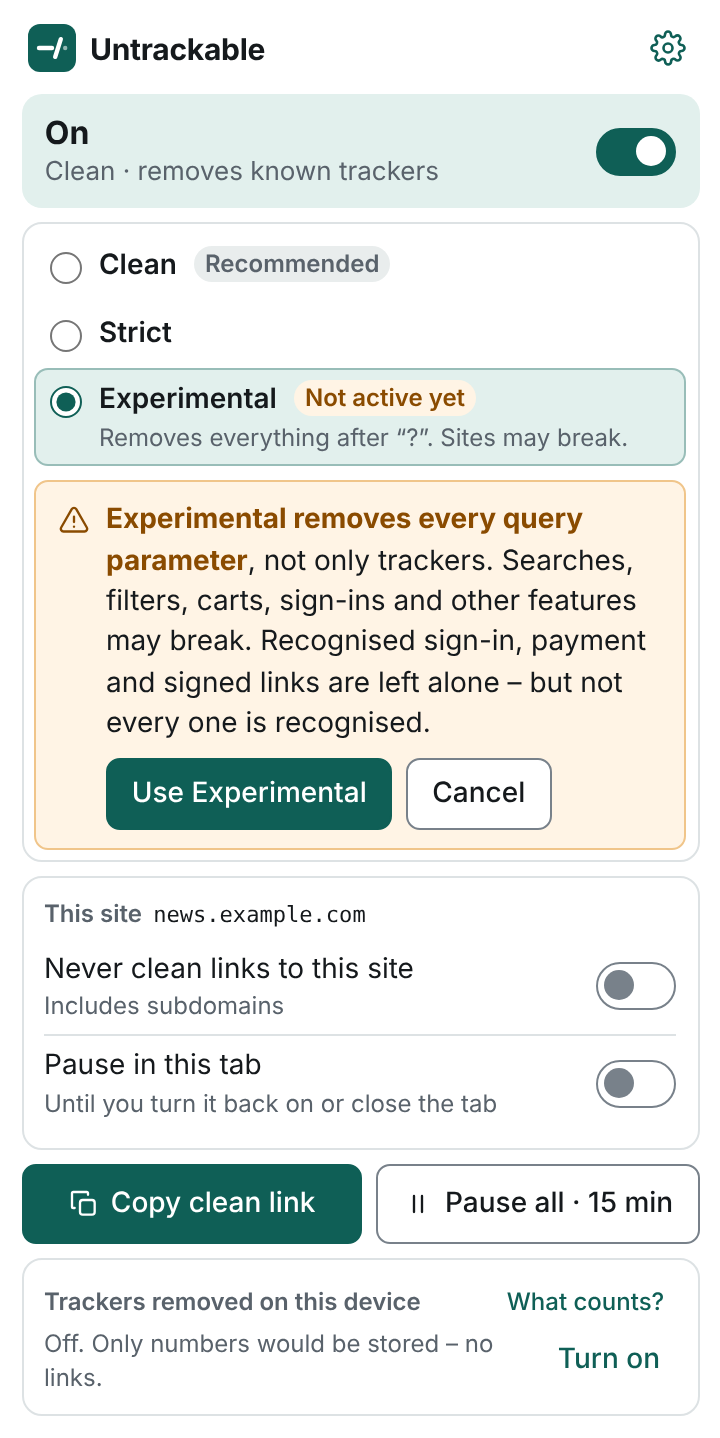
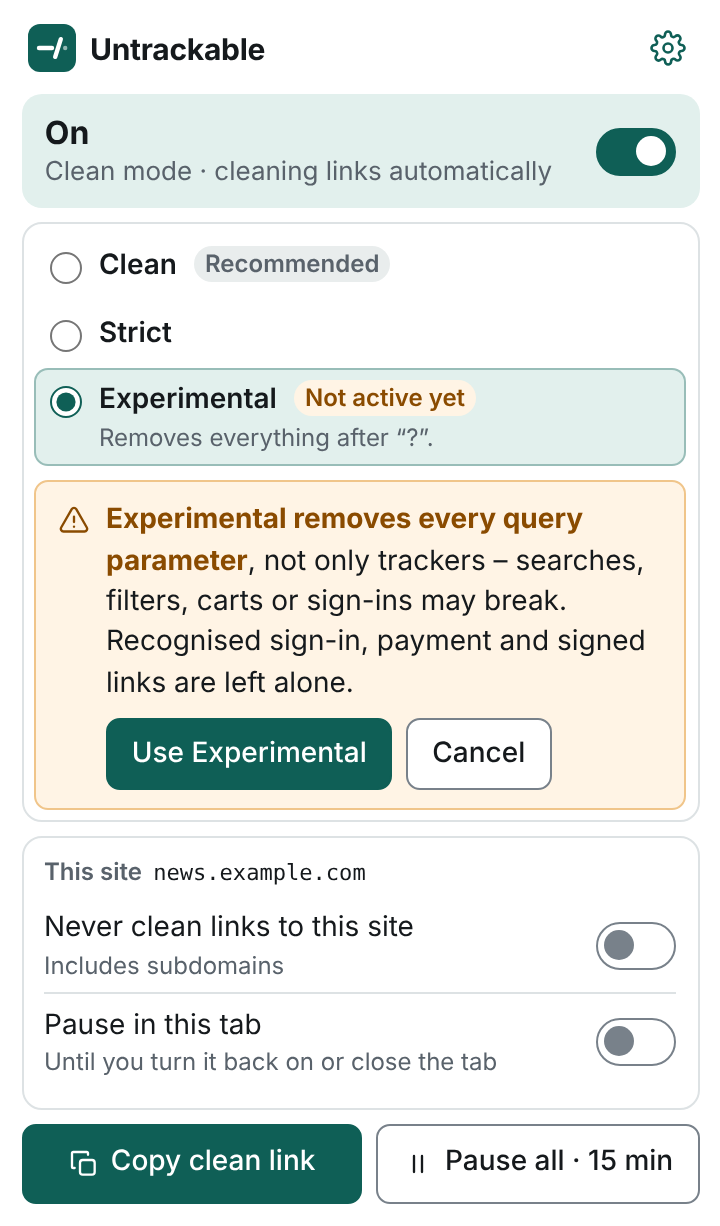
UI: final design review – unambiguous states, warning colour, compact notices
From an independent UI/UX + graphic design review with real screenshots:
- Paused: 'Resume now' in the status header; the selected mode loses its
  live highlight whenever this tab is not cleaned (off, paused, exception).
- Exception: 'Not cleaned on this site' instead of a teal 'On'; parent
  exception note links to the settings.
- Experimental: amber mode row (no teal/orange mix), no repeated warning;
  hero names the mode instead of repeating the row's description.
- Notices (redirect loop, Experimental confirmation) hide the statistics
  card and use shorter text: all common states fit Chrome's 600 px popup.
- 'Recommended' tag readable on the selected row; disabled modes clearly
  inactive; tab without a web page explains why Copy is unavailable;
  'Includes subdomains' hidden for IP/single-label hosts.
- Settings: consistent 'Experimental' and 'Total' naming (with explanation),
  header alignment. README screenshots regenerated.

Claude-Session: https://claude.ai/code/session_01Y4FGXQLTKaDwmsA6UgoEP5

diff --git a/apps/browser-extension/src/popup.ts b/apps/browser-extension/src/popup.ts
@@ -28,6 +28,9 @@ const loopSection = $('loop-section');
 const loopHostEl = $('loop-host');
 const loopRetry = $('loop-retry') as HTMLButtonElement;
 const siteNote = $('site-note');
+const siteNoteText = $('site-note-text');
+const exceptionHint = $('l-exception-d');
+const heroResume = $('hero-resume') as HTMLButtonElement;
 const statsEnable = $('stats-enable') as HTMLButtonElement;
 
 let tab: chrome.tabs.Tab | undefined;
@@ -50,10 +53,11 @@ function coveringException(s: Settings): string | undefined {
   return s.exceptions.find((d) => host === d || host.endsWith(`.${d}`));
 }
 
+/** The hero names the mode; the selected mode row below explains it (no repetition). */
 const MODE_DETAIL = {
-  clean: 'Clean · removes known trackers',
-  strict: 'Strict · also removes referral and analytics tags',
-  experimental: 'Experimental · removes all after “?”',
+  clean: 'Clean mode · cleaning links automatically',
+  strict: 'Strict mode · cleaning links automatically',
+  experimental: 'Experimental mode',
 } as const;
 
 function render(s: Settings): void {
@@ -74,7 +78,7 @@ function render(s: Settings): void {
   } else if (paused) {
     const until = new Date(s.pausedUntil).toLocaleTimeString([], { hour: '2-digit', minute: '2-digit' });
     status = `Paused until ${until}`;
-    detail = 'Resumes automatically, or choose Resume.';
+    detail = 'Cleaning resumes automatically.';
     tone = 'off';
   } else {
     status = 'On';
@@ -85,13 +89,16 @@ function render(s: Settings): void {
       detail = 'Other tabs are still cleaned';
       tone = 'off';
     } else if (covering !== undefined) {
-      detail = 'This site is never cleaned (exception)';
+      status = 'Not cleaned on this site';
+      detail = 'Exception · other sites are still cleaned';
+      tone = 'off';
     }
   }
   statusEl.textContent = status;
   statusDetail.textContent = detail;
   hero?.classList.toggle('is-off', tone === 'off');
   hero?.classList.toggle('is-warn', tone === 'warn');
+  heroResume.hidden = !paused;
 
   pauseLabel.textContent = paused ? 'Resume' : `Pause all · ${PAUSE_MINUTES} min`;
   pauseIcon.setAttribute('href', paused ? '#i-play' : '#i-pause');
@@ -106,8 +113,14 @@ function render(s: Settings): void {
   // removed from here (found in review).
   const byParent = covering !== undefined && covering !== host;
   siteException.disabled = byParent;
-  siteNote.textContent = byParent ? `Covered by the exception for ${covering} (change it in Settings).` : '';
+  siteNoteText.textContent = byParent ? `Covered by the exception for ${covering}.` : '';
+  siteNote.hidden = !byParent;
+  // "Includes subdomains" means nothing for IP addresses and single-label hosts.
+  exceptionHint.hidden = !host.includes('.') || /^[\d.]+$|^\[/.test(host);
   copyBtn.disabled = tab?.url === undefined || hostOf(tab.url) === '';
+  copyBtn.title = copyBtn.disabled ? 'This tab shows no web page' : '';
+  if (copyBtn.disabled && copyResult.textContent === '')
+    copyResult.textContent = 'Open a web page to copy its clean link.';
 }
 
 async function init(): Promise<void> {
@@ -125,7 +138,7 @@ async function init(): Promise<void> {
       loopHostEl.textContent = state.loopHost;
       if (state.loopNotOurs === true) {
         $('loop-text').textContent =
-          'still fails with cleaning turned off for this site – the loop is probably not caused by Untrackable. If it involves another site, use “Pause in this tab” and reload; otherwise try again later or contact the site.';
+          'still fails without cleaning – probably not caused by Untrackable. If another site is involved, try “Pause in this tab” and reload.';
         loopRetry.hidden = true;
       }
       loopSection.hidden = false;
@@ -171,6 +184,8 @@ loopRetry.addEventListener('click', async () => {
   else if (loopHostEl.parentElement)
     loopHostEl.parentElement.textContent = 'Not possible right now – at most one reload per minute.';
 });
+heroResume.addEventListener('click', () => void saveSettings({ pausedUntil: 0 }));
+$('site-note-settings').addEventListener('click', () => void chrome.runtime.openOptionsPage());
 statsEnable.addEventListener('click', () => void setStatsEnabled(true).then(() => renderStats()));
 $('open-options').addEventListener('click', () => void chrome.runtime.openOptionsPage());
 $('stats-about').addEventListener('click', () => {

diff --git a/apps/browser-extension/static/popup.html b/apps/browser-extension/static/popup.html
@@ -59,6 +59,7 @@
             <svg class="icon" aria-hidden="true"><use href="#i-warn" /></svg><span>Sites may break.</span>
             <button type="button" class="quiet" id="exp-back">Back to Clean</button>
           </p>
+          <p class="hero-action"><button type="button" class="quiet" id="hero-resume" hidden>Resume now</button></p>
         </div>
         <input type="checkbox" class="switch" role="switch" id="enabled" aria-label="Clean links automatically" />
       </section>
@@ -97,7 +98,7 @@
             ><input type="radio" name="mode" value="experimental" aria-labelledby="m-exp" aria-describedby="exp-hint" />
             <span
               ><strong id="m-exp">Experimental <span class="tag pending-tag">Not active yet</span></strong
-              ><small id="exp-hint">Removes everything after “?”. Sites may break.</small></span
+              ><small id="exp-hint">Removes everything after “?”.</small></span
             ></label
           >
         </div>
@@ -112,9 +113,8 @@
           <svg class="icon" aria-hidden="true"><use href="#i-warn" /></svg>
           <div class="body">
             <p id="exp-confirm-text">
-              <strong>Experimental removes every query parameter</strong>, not only trackers. Searches, filters, carts,
-              sign-ins and other features may break. Recognised sign-in, payment and signed links are left alone – but
-              not every one is recognised.
+              <strong>Experimental removes every query parameter</strong>, not only trackers – searches, filters, carts
+              or sign-ins may break. Recognised sign-in, payment and signed links are left alone.
             </p>
             <div class="row">
               <button type="button" class="primary" id="exp-enable">Use Experimental</button>
@@ -138,7 +138,10 @@
             aria-labelledby="l-exception"
             aria-describedby="l-exception-d site-note"
         /></label>
-        <p id="site-note" class="note muted"></p>
+        <p id="site-note" class="note muted" hidden>
+          <span id="site-note-text"></span>
+          <button type="button" class="quiet small" id="site-note-settings">Change in Settings</button>
+        </p>
         <label class="setting"
           ><span
             ><span id="l-tab">Pause in this tab</span
@@ -180,14 +183,14 @@
               <dd id="stats-week">0</dd>
             </div>
             <div>
-              <dt>Total</dt>
+              <dt title="Since statistics were turned on or last reset">Total</dt>
               <dd id="stats-total">0</dd>
             </div>
           </dl>
           <p id="stats-other" class="muted fine" hidden></p>
         </div>
         <div id="stats-off" class="stats-off" hidden>
-          <p class="muted fine">Off. Only numbers would be stored – no links.</p>
+          <p class="muted fine">Off · would store numbers only, no links</p>
           <button type="button" class="quiet" id="stats-enable">Turn on</button>
         </div>
       </section>

diff --git a/apps/browser-extension/static/options.html b/apps/browser-extension/static/options.html
@@ -88,7 +88,7 @@
                 aria-describedby="m-exp-d"
               />
               <span id="exp-desc"
-                ><strong id="m-exp">Experimental – strip query parameters</strong
+                ><strong id="m-exp">Experimental</strong
                 ><small id="m-exp-d"
                   >Removes the whole query string (<code>?…</code>) of the pages you open, known tracker or not (links
                   you copy with Ctrl/Cmd+C get the Strict rules). Links Untrackable recognises as sign-in, payment,
@@ -156,7 +156,7 @@
               <dd id="stats-week">0</dd>
             </div>
             <div>
-              <dt>Since turned on</dt>
+              <dt title="Since statistics were turned on or last reset">Total</dt>
               <dd id="stats-total">0</dd>
             </div>
           </dl>
@@ -178,6 +178,10 @@
               Parameters left in place – protected links, your exceptions, while paused – are not counted. Removals the
               browser does not report may be missed. If another extension removes the very same parameters first, its
               removals can be counted too.
+            </li>
+            <li>
+              “Today” and “Last 7 days” follow your local calendar; “Total” counts since statistics were turned on or
+              last reset.
             </li>
             <li>
               Stored on this device only: one number per day for the last 7 days and a total. No addresses, sites,

diff --git a/apps/browser-extension/static/popup.css b/apps/browser-extension/static/popup.css
@@ -165,6 +165,35 @@ fieldset.card .mode {
   justify-content: space-between;
   gap: 0.5rem;
 }
+/* Not cleaning here (off, paused, exception): the selected mode is not "live". */
+.hero.is-off ~ .modes .mode:has(input:checked) {
+  background: transparent;
+  border-color: var(--border);
+}
+/* Experimental keeps the warning colour in the mode list too. */
+.hero.is-warn ~ .modes .mode:has(input[value='experimental']:checked) {
+  background: var(--warn-bg);
+  border-color: var(--warn-border);
+}
+/* A notice needs the room: the numbers can wait. */
+main:has(#loop-section:not([hidden])) #stats,
+main:has(#exp-confirm:not([hidden])) #stats {
+  display: none;
+}
+.hero-action:has(button[hidden]) {
+  display: none;
+}
+.hero-action button {
+  min-height: 28px;
+  margin: 0.15rem 0 0 -0.45rem;
+  padding: 0.1rem 0.45rem;
+  font-size: 13px;
+}
+.note button {
+  display: inline;
+  vertical-align: baseline;
+  margin-left: 0.15rem;
+}
 .hero-warn {
   display: flex;
   align-items: center;

diff --git a/apps/browser-extension/static/common.css b/apps/browser-extension/static/common.css
@@ -270,7 +270,7 @@ input[type='checkbox'].switch:disabled {
 }
 .mode:has(input:disabled) {
   cursor: default;
-  opacity: 0.75;
+  opacity: 0.6;
 }
 .mode input {
   margin: 0.2rem 0 0;
@@ -289,6 +289,10 @@ input[type='checkbox'].switch:disabled {
 .mode small {
   font-size: 12px;
   line-height: 1.35;
+}
+.mode:has(input:checked) .tag:not(.pending-tag) {
+  background: var(--bg);
+  color: var(--accent);
 }
 .tag {
   display: inline-block;

diff --git a/apps/browser-extension/static/options.css b/apps/browser-extension/static/options.css
@@ -14,7 +14,7 @@ main {
 .top-inner {
   display: flex;
   flex-wrap: wrap;
-  align-items: baseline;
+  align-items: center;
   justify-content: space-between;
   gap: 0.25rem 1rem;
   padding-block: 1rem;

diff --git a/docs/privacy/statistics.md b/docs/privacy/statistics.md
@@ -187,7 +187,7 @@ runs when a redirect or rewrite is observed.
 | Trackers removed on this device     | verified removals of tracking parameters from page loads and copies, on this browser profile |
 | Today                               | counts filed under today's local date                                                        |
 | Last 7 days                         | today and the six previous local dates                                                       |
-| Total / Since turned on             | since statistics were turned on or last reset                                                |
+| Total                               | since statistics were turned on or last reset                                                |
 | + N other parameters (Experimental) | non-tracking parameters removed in Experimental mode, total                                  |
 
 The settings page explains the limits ("What is counted and stored").
